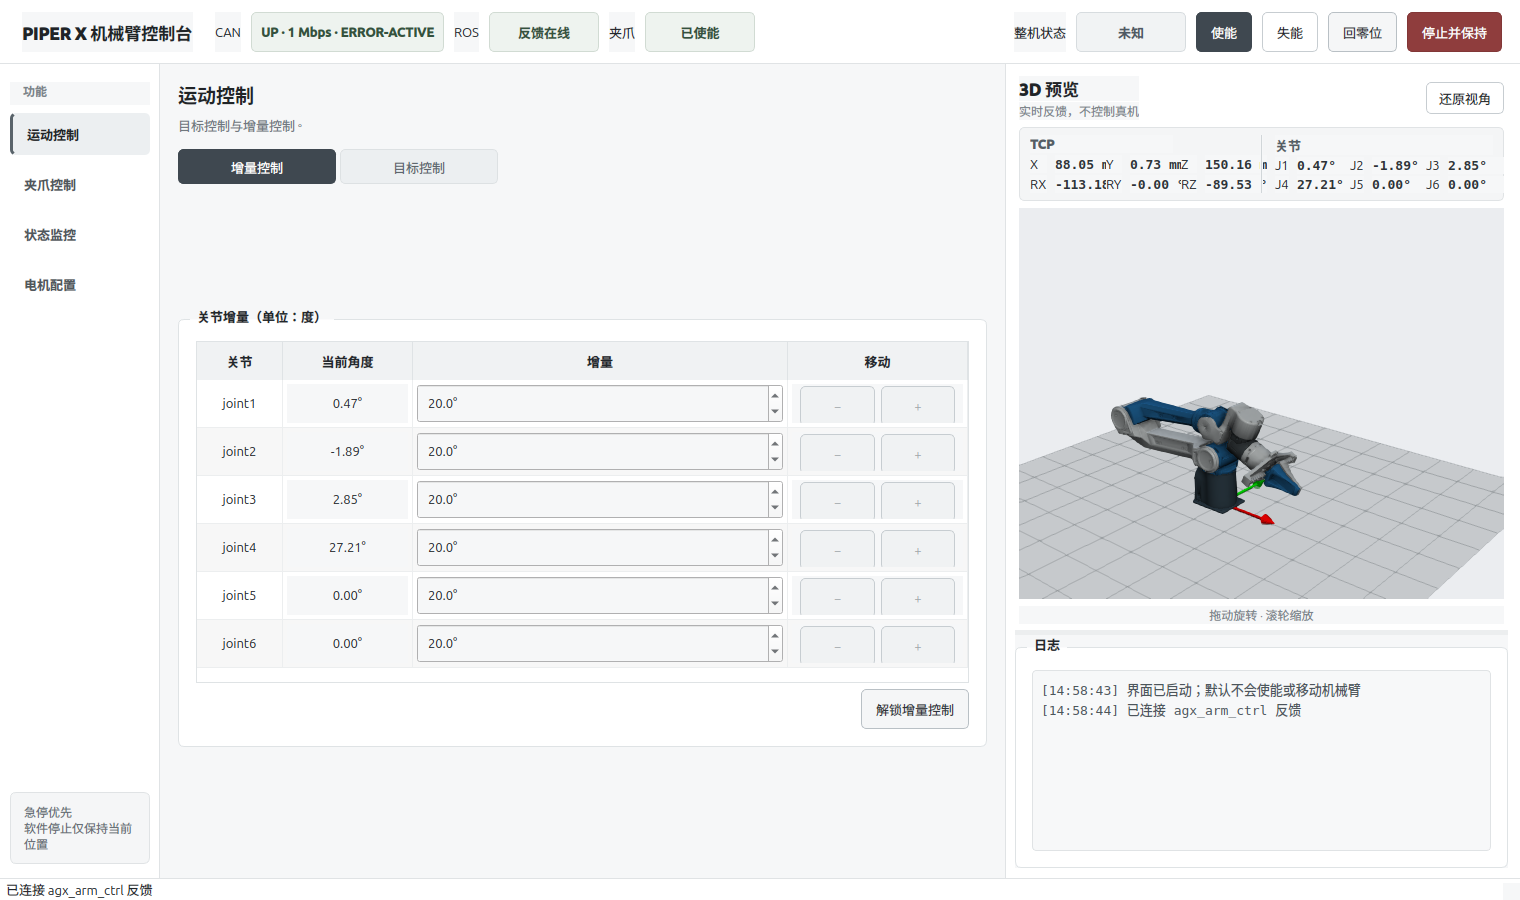
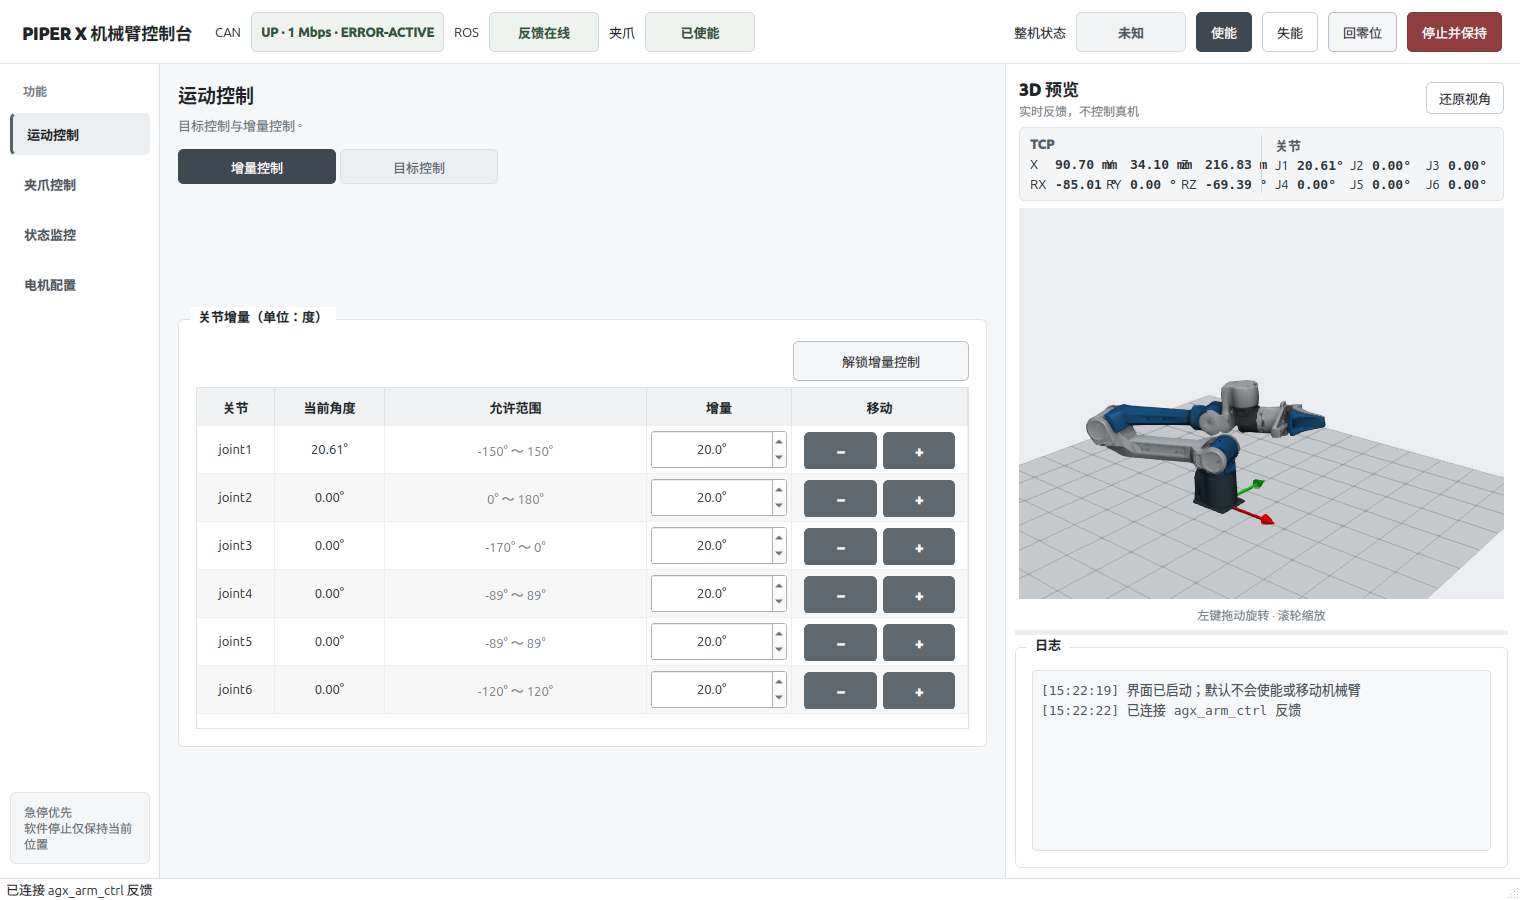
Refine increment controls and 3D navigation

diff --git a/piper_gui.py b/piper_gui.py
@@ -969,7 +969,7 @@ class MainWindow(QMainWindow):
         preview_layout.addWidget(self.arm_view, 1)
         reset_button.clicked.connect(self.arm_view.reset_camera)
 
-        hint = QLabel("拖动旋转 · 滚轮缩放")
+        hint = QLabel("左键拖动旋转 · 滚轮缩放")
         hint.setObjectName("simulationHint")
         hint.setAlignment(Qt.AlignCenter)
         preview_layout.addWidget(hint)
@@ -1102,9 +1102,19 @@ class MainWindow(QMainWindow):
         group = QGroupBox("关节增量（单位：度）")
         layout = QVBoxLayout(group)
 
-        self.delta_table = QTableWidget(6, 4)
+        controls = QHBoxLayout()
+        controls.addStretch(1)
+        self.jog_unlock_button = QPushButton("解锁增量控制")
+        self.jog_unlock_button.setCheckable(True)
+        self.jog_unlock_button.setObjectName("warningButton")
+        self.jog_unlock_button.setFixedWidth(176)
+        self.jog_unlock_button.clicked.connect(self._toggle_jog_mode)
+        controls.addWidget(self.jog_unlock_button)
+        layout.addLayout(controls)
+
+        self.delta_table = QTableWidget(6, 5)
         self.delta_table.setHorizontalHeaderLabels(
-            ["关节", "当前角度", "增量", "移动"]
+            ["关节", "当前角度", "允许范围", "增量", "移动"]
         )
         self.delta_table.verticalHeader().setVisible(False)
         self.delta_table.setAlternatingRowColors(True)
@@ -1126,18 +1136,26 @@ class MainWindow(QMainWindow):
             self.delta_current_joint_labels.append(degree_label)
             self.delta_table.setCellWidget(row, 1, degree_label)
 
-            delta_spinbox = QDoubleSpinBox()
             lower, upper = JOINT_LIMITS_RAD[row]
+            range_label = QLabel(
+                f"{math.degrees(lower):.0f}° ～ {math.degrees(upper):.0f}°"
+            )
+            range_label.setObjectName("muted")
+            range_label.setAlignment(Qt.AlignCenter)
+            self.delta_table.setCellWidget(row, 2, range_label)
+
+            delta_spinbox = QDoubleSpinBox()
             delta_spinbox.setRange(0.1, math.degrees(upper - lower))
             delta_spinbox.setDecimals(1)
             delta_spinbox.setSingleStep(0.1)
             delta_spinbox.setValue(20.0)
             delta_spinbox.setSuffix("°")
+            delta_spinbox.setAlignment(Qt.AlignCenter)
             delta_spinbox.editingFinished.connect(
                 lambda index=row: self._highlight_joint_row(index)
             )
             self.delta_spinboxes.append(delta_spinbox)
-            self.delta_table.setCellWidget(row, 2, delta_spinbox)
+            self.delta_table.setCellWidget(row, 3, delta_spinbox)
 
             move_widget = QWidget()
             move_layout = QHBoxLayout(move_widget)
@@ -1145,6 +1163,8 @@ class MainWindow(QMainWindow):
             move_layout.setSpacing(6)
             minus_button = QPushButton("−")
             plus_button = QPushButton("+")
+            minus_button.setObjectName("deltaMoveButton")
+            plus_button.setObjectName("deltaMoveButton")
             minus_button.setEnabled(False)
             plus_button.setEnabled(False)
             minus_button.clicked.connect(
@@ -1156,7 +1176,7 @@ class MainWindow(QMainWindow):
             self.jog_buttons.extend((minus_button, plus_button))
             move_layout.addWidget(minus_button)
             move_layout.addWidget(plus_button)
-            self.delta_table.setCellWidget(row, 3, move_widget)
+            self.delta_table.setCellWidget(row, 4, move_widget)
             self.delta_table.setRowHeight(row, 48)
 
         self.delta_table.setFixedHeight(342)
@@ -1165,20 +1185,12 @@ class MainWindow(QMainWindow):
         header.setStretchLastSection(False)
         for column in range(self.delta_table.columnCount()):
             header.setSectionResizeMode(column, QHeaderView.Fixed)
-        self.delta_table.setColumnWidth(0, 86)
-        self.delta_table.setColumnWidth(1, 130)
-        self.delta_table.setColumnWidth(3, 180)
+        self.delta_table.setColumnWidth(0, 78)
+        self.delta_table.setColumnWidth(1, 110)
+        self.delta_table.setColumnWidth(3, 145)
+        self.delta_table.setColumnWidth(4, 176)
         header.setSectionResizeMode(2, QHeaderView.Stretch)
         layout.addWidget(self.delta_table)
-
-        controls = QHBoxLayout()
-        controls.addStretch(1)
-        self.jog_unlock_button = QPushButton("解锁增量控制")
-        self.jog_unlock_button.setCheckable(True)
-        self.jog_unlock_button.setObjectName("warningButton")
-        self.jog_unlock_button.clicked.connect(self._toggle_jog_mode)
-        controls.addWidget(self.jog_unlock_button)
-        layout.addLayout(controls)
         return group
 
     def _build_motor_group(self) -> QGroupBox:
@@ -1295,7 +1307,9 @@ class MainWindow(QMainWindow):
     def _apply_style(self) -> None:
         self.setStyleSheet(
             """
-            QMainWindow, QWidget { background: #f6f7f8; color: #22272b; }
+            QMainWindow { background: #f6f7f8; color: #22272b; }
+            QWidget { color: #22272b; }
+            QLabel { background: transparent; }
             QWidget#topBar {
                 background: #ffffff; border-bottom: 1px solid #e0e3e5;
             }
@@ -1349,7 +1363,10 @@ class MainWindow(QMainWindow):
                 font-weight: 650; border: 1px solid #dfe3e5; border-radius: 6px;
                 margin-top: 12px; padding: 12px 8px 8px 8px; background: #ffffff;
             }
-            QGroupBox::title { subcontrol-origin: margin; left: 12px; padding: 0 5px; }
+            QGroupBox::title {
+                subcontrol-origin: margin; left: 12px; padding: 0 6px;
+                background: #ffffff; color: #22272b;
+            }
             QPushButton {
                 min-height: 34px; border: 1px solid #c7cdd1; border-radius: 5px;
                 padding: 2px 14px; background: #ffffff;
@@ -1358,6 +1375,15 @@ class MainWindow(QMainWindow):
             QPushButton:disabled { color: #a0a6aa; background: #f0f2f3; }
             QPushButton#primaryButton { background: #3f4850; color: white; border-color: #3f4850; }
             QPushButton#primaryButton:hover { background: #30383e; }
+            QPushButton#deltaMoveButton {
+                min-width: 46px; padding: 1px 10px; background: #3f4850;
+                color: #ffffff; border-color: #3f4850; font-size: 15px;
+                font-weight: 700;
+            }
+            QPushButton#deltaMoveButton:hover { background: #30383e; }
+            QPushButton#deltaMoveButton:disabled {
+                background: #606970; color: #ffffff; border-color: #606970;
+            }
             QPushButton#homeButton, QPushButton#warningButton {
                 background: #f5f6f7; color: #30363a; border-color: #b9c0c5;
             }
@@ -1377,17 +1403,14 @@ class MainWindow(QMainWindow):
             QTableWidget::item:selected {
                 background: #e5e8ea; color: #22272b; font-weight: 700;
             }
-            QTableWidget QWidget[activeJointRow="true"] {
-                background: #eceff1;
-            }
             QTableWidget QDoubleSpinBox[activeJointRow="true"] {
-                background: #ffffff; border: 2px solid #69737a;
+                border: 1px solid #69737a;
             }
             QHeaderView::section {
                 background: #f0f2f3; padding: 7px; border: 0;
                 border-right: 1px solid #dfe3e5; font-weight: 650;
             }
-            QDoubleSpinBox { min-height: 28px; padding: 1px 6px; }
+            QDoubleSpinBox { min-height: 28px; }
             QTextEdit#logView {
                 background: #f7f8f9; color: #4c555b; border: 1px solid #e0e3e5;
                 border-radius: 4px; padding: 4px; font-family: monospace;

diff --git a/arm_simulation.py b/arm_simulation.py
@@ -141,6 +141,7 @@ class PiperSimulationWidget(QWidget):
         from vtkmodules.vtkCommonMath import vtkMatrix4x4
         from vtkmodules.vtkFiltersCore import vtkPolyDataNormals
         from vtkmodules.vtkFiltersSources import vtkPlaneSource
+        from vtkmodules.vtkInteractionStyle import vtkInteractorStyleTrackballCamera
         from vtkmodules.vtkIOGeometry import vtkSTLReader
         from vtkmodules.vtkRenderingAnnotation import vtkAxesActor
         from vtkmodules.vtkRenderingCore import (
@@ -170,6 +171,9 @@ class PiperSimulationWidget(QWidget):
         render_window = self._vtk_widget.GetRenderWindow()
         render_window.SetMultiSamples(4)
         render_window.AddRenderer(renderer)
+        interactor = render_window.GetInteractor()
+        self._interactor_style = vtkInteractorStyleTrackballCamera()
+        interactor.SetInteractorStyle(self._interactor_style)
         self._renderer = renderer
 
         renderer.AutomaticLightCreationOff()
